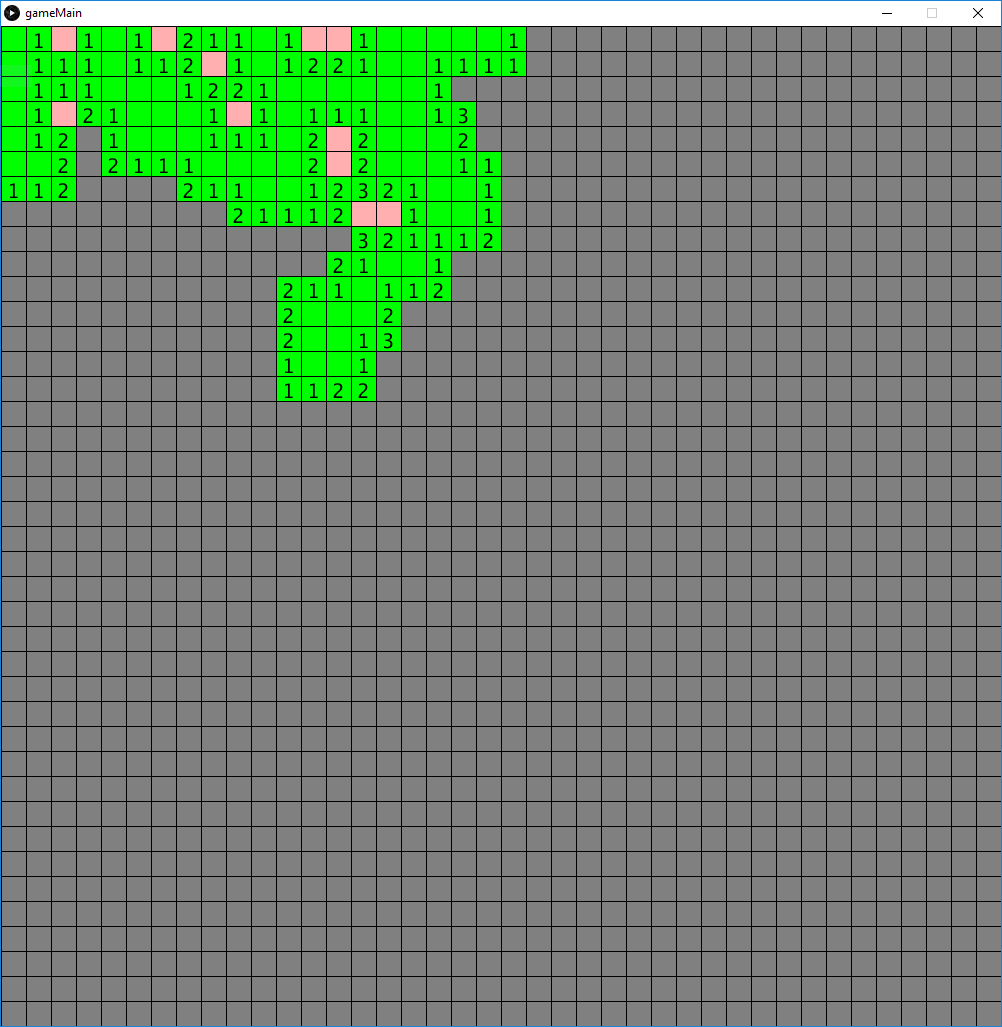
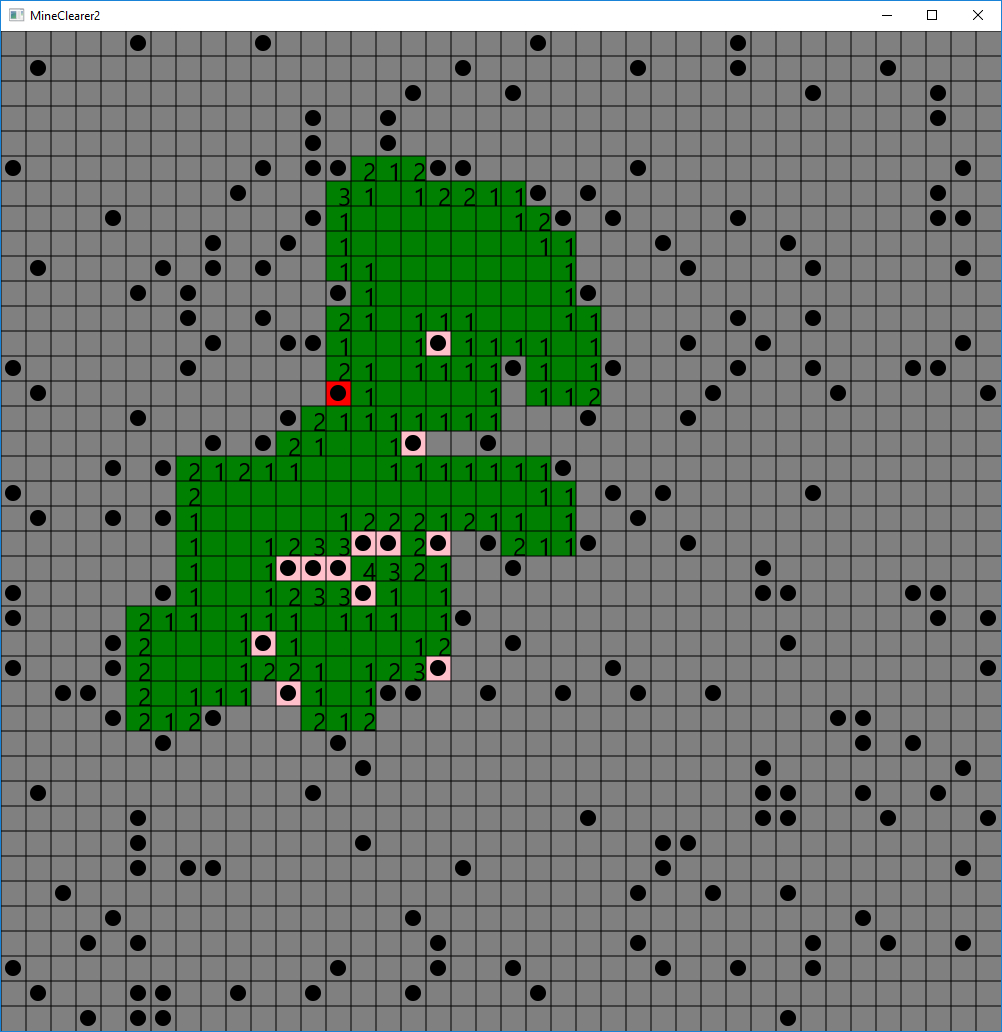
Changed from Processing to JavaFX

diff --git a/src/block.java b/src/block.java
@@ -1,9 +1,19 @@
 /*  Each square on the minefield is a block object
- *  The object handles actions against it and serves information to the draw loop
+ *  Each block has a JavaFX Rectangle that is shown on the board
  */
+
+import javafx.event.EventHandler;
+import javafx.scene.Group;
+import javafx.scene.input.MouseButton;
+import javafx.scene.input.MouseEvent;
+import javafx.scene.shape.Ellipse;
+import javafx.scene.shape.Rectangle;
+import javafx.scene.text.Text;
 
 import java.awt.*;
 import java.util.ArrayList;
+import javafx.scene.paint.Color;
+import javafx.scene.text.TextAlignment;
 
 public class block {
     boolean isEdge = false;
@@ -14,7 +24,17 @@ public class block {
     boolean flagged = false;
     boolean cleared = false;
 
+    int position;
+
+    Rectangle rect = new Rectangle();
+    Text num = new Text();
+    Ellipse bomb = new Ellipse();
+
     block[] blocksAround = new block[8];
+
+    public void setPosition(int pos) {
+        position = pos;
+    }
 
     public boolean isEdge() {
         return isEdge;
@@ -26,6 +46,10 @@ public class block {
 
     public void setCleared(boolean cleared) {
         this.cleared = cleared;
+        rect.setFill(this.getColor());
+        if(!isBomb && bombsAround != 0) {
+            num.setVisible(true);
+        }
     }
 
     public void setFlagged(boolean flagged) {
@@ -86,24 +110,32 @@ public class block {
         return gameSettings.getColor(this.getPalette());
     }
 
-    public void clickBlock() {
-        //TODO auto clear
-        cleared = true;
-        flagged = false;
-
-        if(cleared && isBomb){
-            gameSettings.endGame();
-        } else if(this.getBombsAround() == 0){
-            ArrayList<block> clear = new ArrayList<block>();
-            clear.add(this);
-            autoClear(clear);
+    public void clickBlock(javafx.scene.input.MouseEvent event) {
+        if(gameSettings.isGameOver()){
+            return; //No action once game over
         }
-    }
 
-    public void flagBlock() {
-        if(!cleared) {
-            flagged = !flagged;
+        if(event.getButton() == MouseButton.PRIMARY && !flagged) {
+            cleared = true;
+            flagged = false;
+            if (cleared && isBomb) {
+                gameSettings.endGame();
+            } else if (this.getBombsAround() == 0) {
+                ArrayList<block> clear = new ArrayList<block>();
+                clear.add(this);
+                autoClear(clear);
+            }
+        } else if (event.getButton() == MouseButton.SECONDARY){
+            if(!cleared) {
+                flagged = !flagged;
+            }
         }
+        rect.setFill(this.getColor());
+        if(!isBomb && bombsAround != 0) {
+            num.setVisible(true);
+        }
+
+        gameSettings.checkGameOver();
     }
 
     public void autoClear(ArrayList<block> clear) {
@@ -126,6 +158,53 @@ public class block {
                 }
             }
             clear.remove(0);
+        }
+    }
+
+    public Rectangle getRect(Group group){ //son
+        rect.setX(gameSettings.getBlockPixWide()*(position%gameSettings.getBlocksWide()));
+        rect.setY(position/gameSettings.getBlocksWide()*gameSettings.getBlockPixTall());
+        rect.setWidth(gameSettings.getBlockPixWide());
+        rect.setHeight(gameSettings.getBlockPixTall());
+        rect.setFill(this.getColor());
+        rect.setOnMouseClicked(new EventHandler<MouseEvent>() {
+            @Override
+            public void handle(MouseEvent event) {
+                if(!gameSettings.isSpawned()){
+                    gameSettings.populate(position, group);
+                }
+                block.this.clickBlock(event);
+            }
+        });
+        return rect;
+    }
+
+    public Text getNumber(){
+        num.setText(String.valueOf(bombsAround));
+        num.setX(gameSettings.getBlockPixWide()*(position%gameSettings.getBlocksWide())+gameSettings.getBlockPixWide()/2);
+        num.setY(position/gameSettings.getBlocksWide()*gameSettings.getBlockPixTall()+gameSettings.getBlockPixTall());
+        num.setTextAlignment(TextAlignment.LEFT);
+        num.setFont(gameSettings.getFont());
+        num.setFill(gameSettings.getColor(6));
+        num.setVisible(false);
+        num.setMouseTransparent(true);
+        return num;
+    }
+
+    public Ellipse getBomb(){
+        bomb.setCenterX(gameSettings.getBlockPixWide()*(position%gameSettings.getBlocksWide())+gameSettings.getBlockPixWide()/2);
+        bomb.setCenterY(position/gameSettings.getBlocksWide()*gameSettings.getBlockPixTall()+gameSettings.getBlockPixTall()/2);
+        bomb.setRadiusX(gameSettings.getBlockPixWide()/3);
+        bomb.setRadiusY(gameSettings.getBlockPixTall()/3);
+        bomb.setFill(gameSettings.getColor(6));
+        bomb.setVisible(false);
+        bomb.setMouseTransparent(true);
+        return bomb;
+    }
+
+    public void showBomb(){
+        if(isBomb){
+            bomb.setVisible(true);
         }
     }
 

diff --git a/src/gameMain.java b/src/gameMain.java
@@ -1,58 +1,45 @@
-/*  Minesweeper clone for fun
- *  By Jacob Sheradin
- *  Java 8 with Processing 3.3.6
-*/
+import javafx.application.Application;
+import javafx.scene.Group;
+import javafx.scene.Scene;
+import javafx.scene.paint.Color;
+import javafx.scene.shape.Line;
+import javafx.stage.Stage;
 
-import processing.core.PApplet;
+public class gameMain extends Application{
+    public static void main(String[] args) {
+        launch(args);
 
-public class gameMain extends PApplet{
-    static block[] board;
-
-    public static void main(String[] args){
-        //TODO Launch menu
-        board = gameSettings.newGame(1000, 1000, 40, 40, 200);
-        PApplet.main("gameMain", args);
     }
 
-    public void settings() {
-        size(gameSettings.getPixWide(), gameSettings.getPixTall());
-    }
+    @Override
+    public void start(Stage primaryStage) {
+        //TODO start menu
+        gameSettings.newGame(1000, 1000, 40, 40, 200);
+        primaryStage.setTitle("MineClearer2");
 
-    public void setup() {
-        background(255);
-    }
+        //Draw game board
+        Group gameBoard = new Group();
+        Scene menuScene = new Scene(gameBoard, gameSettings.getPixWide(), gameSettings.getPixTall(), Color.BLACK);
 
-    public void mouseClicked(){
-        //Action on tile from click
-        int x = floor(mouseX/gameSettings.getBlockPixWide());
-        int y = floor(mouseY/gameSettings.getBlockPixTall());
-        if(!gameSettings.isGameOver(board)) {
-            if (mouseButton == LEFT) {
-                board[y * gameSettings.getBlocksWide() + x].clickBlock();
-            } else if (mouseButton == RIGHT) {
-                board[y * gameSettings.getBlocksWide() + x].flagBlock();
-            }
+        for(int i=0; i<gameSettings.board.length; i++) {
+            gameBoard.getChildren().add(gameSettings.board[i].getRect(gameBoard));
+            gameBoard.getChildren().add(gameSettings.board[i].getBomb());
         }
-    }
 
-    public void draw() {
-        //Place tiles on the board
         for(int x=0; x<gameSettings.getBlocksWide(); x++){
-            for(int y=0; y<gameSettings.getBlocksTall(); y++){
-                block tile = board[y*gameSettings.getBlocksWide()+x];
-                fill(tile.getColor().getRGB());
-                rect(x*gameSettings.getBlockPixWide(), y*gameSettings.getBlockPixTall(), gameSettings.getBlockPixWide(), gameSettings.getBlockPixTall());
-                if(tile.isCleared() && tile.getBombsAround()!=0){
-                    fill(gameSettings.getColor(6).getRGB());
-                    textAlign(CENTER, CENTER);
-                    textSize(gameSettings.getBlockPixTall()-5);
-                    text(tile.getBombsAround(), x*gameSettings.getBlockPixWide()+gameSettings.getBlockPixWide()/2, y*gameSettings.getBlockPixTall()+gameSettings.getBlockPixTall()/2);
-                }
-                if(gameSettings.isGameOver(board) && tile.isBomb()){
-                    fill(gameSettings.getColor(6).getRGB());
-                    ellipse(x*gameSettings.getBlockPixWide()+gameSettings.getBlockPixWide()/2, y*gameSettings.getBlockPixTall()+gameSettings.getBlockPixTall()/2, gameSettings.getBlockPixWide()/2, gameSettings.getBlockPixTall()/2);
-                }
-            }
+            Line div = new Line(x*gameSettings.getBlockPixWide(), 0, x*gameSettings.getBlockPixWide(), gameSettings.getPixTall());
+            div.setFill(gameSettings.getColor(6));
+            gameBoard.getChildren().add(div);
         }
+
+        for(int y=0; y<gameSettings.getBlocksTall(); y++){
+            Line div = new Line(0, y*gameSettings.getBlockPixTall(), gameSettings.getPixWide(), y*gameSettings.getBlockPixTall());
+            div.setFill(gameSettings.getColor(6));
+            gameBoard.getChildren().add(div);
+        }
+
+        primaryStage.setScene(menuScene);
+        primaryStage.show();
     }
+
 }

diff --git a/src/gameSettings.java b/src/gameSettings.java
@@ -1,17 +1,29 @@
-import java.awt.*;
+/* This object manages various game variables
+ * and events affecting the whole game board
+ */
+
+import java.util.Arrays;
+
+import javafx.scene.Group;
+import javafx.scene.text.Font;
+import javafx.scene.paint.Color;
 
 public class gameSettings {
+    public static block[] board;
+
     public static int pixWide;
     public static int pixTall;
     public static int blocksWide;
     public static int blocksTall;
     public static int bombs;
 
+    public static boolean spawned;
     public static boolean gameOver;
 
     public static Color[] palette = new Color[7];
+    public static Font font;
 
-    public static block[] newGame(int newpixWide, int newpixTall, int newblocksTall, int newblocksWide, int newbombs) {
+    public static void newGame(int newpixWide, int newpixTall, int newblocksTall, int newblocksWide, int newbombs) {
         //Create a new game
         pixWide = newpixWide;
         pixTall = newpixTall;
@@ -19,6 +31,7 @@ public class gameSettings {
         blocksWide = newblocksWide;
         bombs = newbombs;
 
+        spawned = false;
         gameOver = false;
 
         //Default colors
@@ -33,12 +46,15 @@ public class gameSettings {
             palette[6] = Color.BLACK; //Text
         }
 
+        font = new Font(pixTall/blocksTall);
+
         //Make the grid
         block edge = new block();
         edge.setEdge(true);
         block[] grid = new block[blocksTall*blocksWide];
         for(int i=0; i<grid.length; i++){
             grid[i]=new block();
+            grid[i].setPosition(i);
         }
         for(int x=0; x<blocksWide; x++){
             for(int y=0; y<blocksTall; y++){
@@ -100,20 +116,33 @@ public class gameSettings {
             System.exit(1);
         }
 
-        //Fair(tm) bomb placing algorithm
+        board = grid;
+    }
+
+    public static void populate(int clicked, Group gameBoard){
+        //Fair(ish) bomb placing algorithm
         int bombsPlaced = 0;
         while (bombsPlaced < bombs){
-            int i = (int) (Math.random()*grid.length);
-            if (!grid[i].isBomb()){
-                grid[i].setBomb(true);
+            int i = (int) (Math.random()*board.length);
+            //Auto clear on first click
+            if (!board[i].isBomb() && i!=clicked && !Arrays.asList(board[clicked].getBlocksAround()).contains(board[i])){
+                board[i].setBomb(true);
                 bombsPlaced++;
             }
         }
-        for(int i=0; i<grid.length; i++){
-            grid[i].countBombsAround();
+        for(int i=0; i<board.length; i++){
+            board[i].countBombsAround();
         }
 
-        return grid;
+        spawned = true;
+
+        for(int i=0; i<board.length; i++){
+            gameBoard.getChildren().add(board[i].getNumber());
+        }
+    }
+
+    public static boolean isSpawned() {
+        return spawned;
     }
 
     public static int getBlocksTall() {
@@ -158,7 +187,7 @@ public class gameSettings {
         return palette[state];
     }
 
-    public static boolean isGameOver(block[] board){
+    public static boolean isGameOver(){
         int checked = 0;
         for(int i=0; i<board.length; i++){
             if (board[i].isCleared()){
@@ -173,8 +202,23 @@ public class gameSettings {
         }
     }
 
+    public static void checkGameOver(){
+        if(isGameOver()){
+            for(int i=0; i<board.length; i++){
+                board[i].showBomb();
+            }
+        }
+    }
+
     public static void endGame(){
         gameOver = true;
     }
 
+    public static Font getFont(){
+        return font;
+    }
+
+    public static void setFont(Font font) {
+        gameSettings.font = font;
+    }
 }
